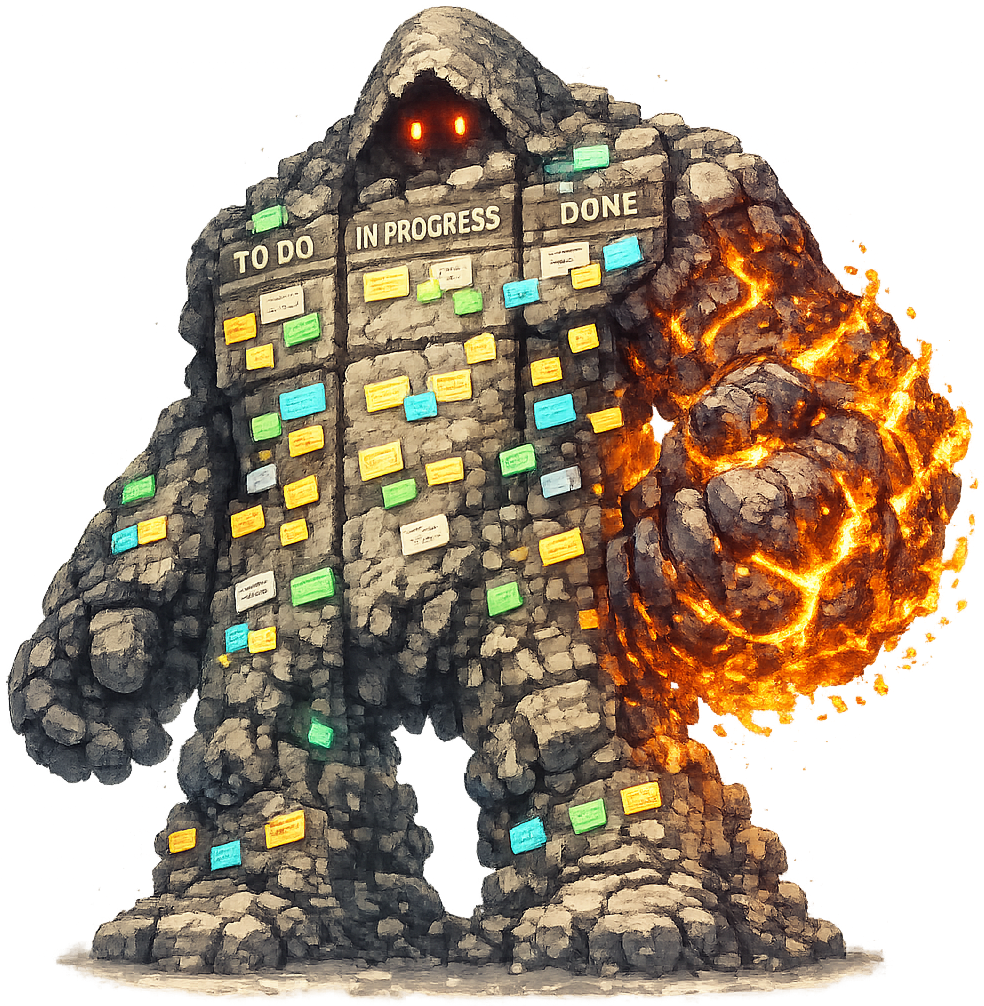
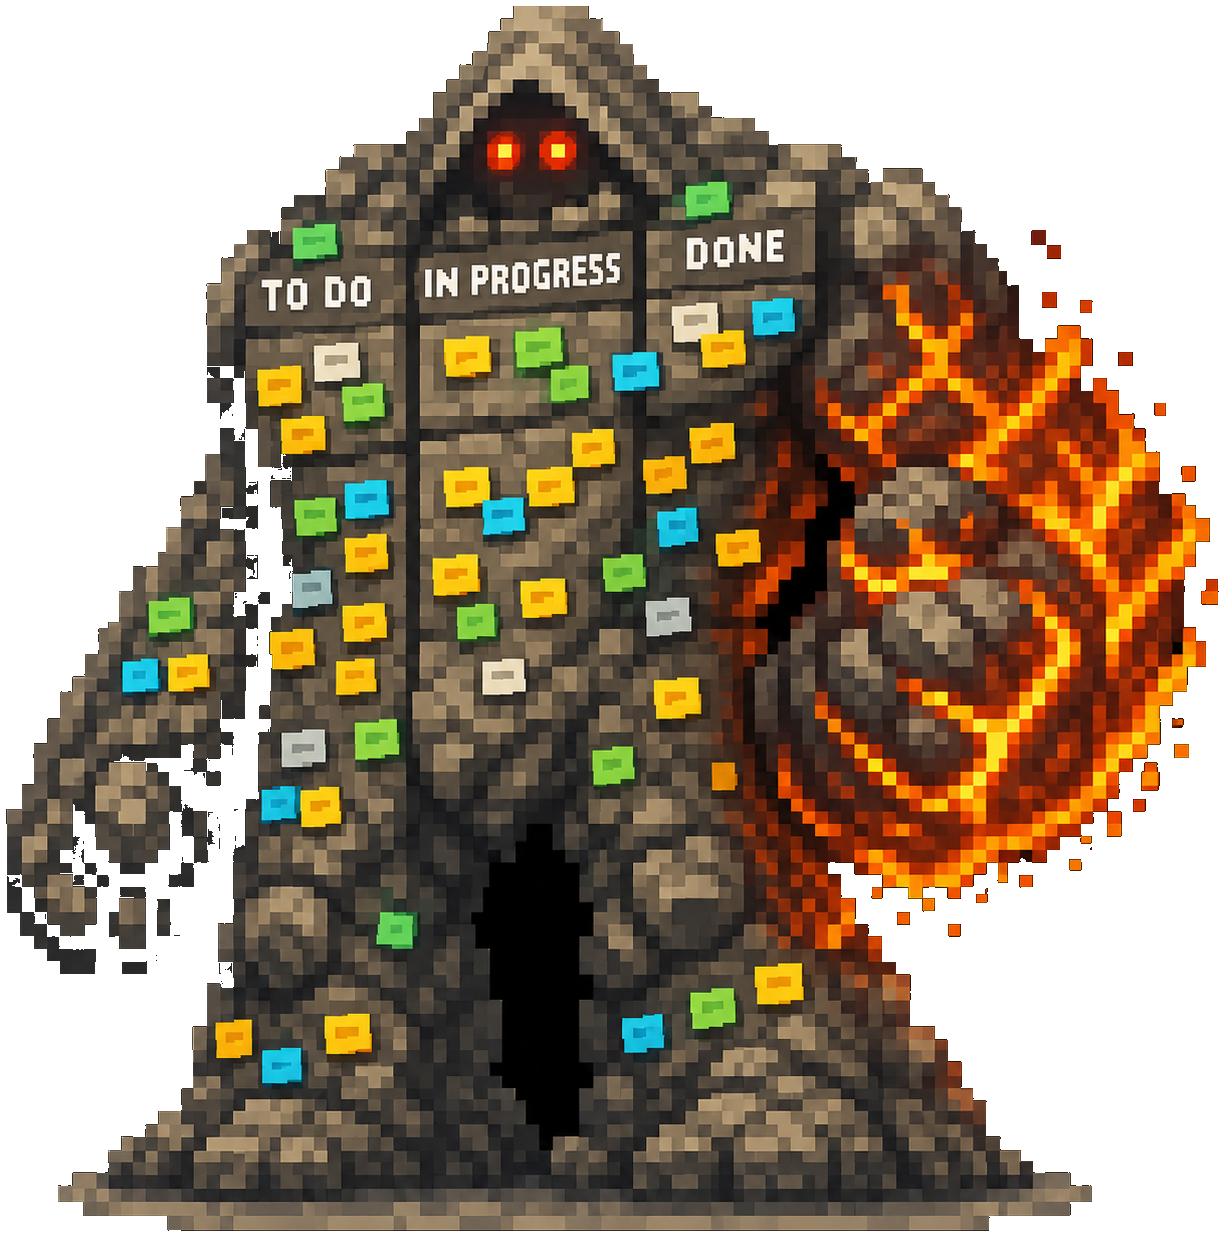
feat: swap boss to the pixel-art golem (idle2)
Replaces the painted boss with the pixel-art version (same kanban-chest /
lava-fist / ember-eyes golem, pixel style — matches the pixel fighters). It
had a solid black background, so added a --black flood-fill mode to key-art.py;
keyed + cropped to idle.png. Boss texture switches to nearest-neighbour
filtering (nearest-mipmap min to avoid minified shimmer) and a crisp alphaTest
0.4. 61 tests pass.

diff --git a/src/raid/bossArt.js b/src/raid/bossArt.js
@@ -16,13 +16,12 @@ function load(url) {
     loader.load(
       url,
       (tex) => {
-        // Painted art (not pixel): smooth + mipmapped for a clean downscale to
-        // the boss's on-screen size. (Was NearestFilter when we expected pixel
-        // sprites — the delivered art is illustrated, so linear reads better.)
-        tex.magFilter = THREE.LinearFilter;
-        tex.minFilter = THREE.LinearMipmapLinearFilter;
+        // Pixel-art boss: nearest mag for crisp blocks; nearest-mipmap min to
+        // avoid shimmer when the large source is drawn small, without the blur
+        // linear filtering would add.
+        tex.magFilter = THREE.NearestFilter;
+        tex.minFilter = THREE.NearestMipmapNearestFilter;
         tex.generateMipmaps = true;
-        tex.anisotropy = 4;
         tex.colorSpace = THREE.SRGBColorSpace;
         resolve(tex);
       },

diff --git a/src/raid/BossSprite.jsx b/src/raid/BossSprite.jsx
@@ -114,7 +114,7 @@ export default function BossSprite({ enraged, hit, summon, stage = 0, scars = []
           ref={mat}
           map={usingArt ? art.idle : entry.tex}
           transparent
-          alphaTest={usingArt ? 0.02 : 0.05}
+          alphaTest={usingArt ? 0.4 : 0.05}
           toneMapped={false}
         />
       </mesh>

diff --git a/scripts/key-art.py b/scripts/key-art.py
@@ -52,13 +52,17 @@ def main():
             feather = int(args[i + 1])
         if a == "--crop" and i + 1 < len(args):
             crop = int(args[i + 1])
+    black = "--black" in args  # key a near-BLACK background instead of white
 
     im = Image.open(inp).convert("RGBA")
     a = np.array(im)
     rgb = a[:, :, :3].astype(np.int16)
-    near_white = rgb.min(axis=2) >= th
+    if black:
+        near_bg = rgb.max(axis=2) <= (th if th < 128 else 40)
+    else:
+        near_bg = rgb.min(axis=2) >= th
 
-    bg = flood_from_border(near_white)
+    bg = flood_from_border(near_bg)
     a[:, :, 3] = np.where(bg, 0, a[:, :, 3])
 
     # Feather the cut: kept pixels near the boundary get an alpha ramp based on
